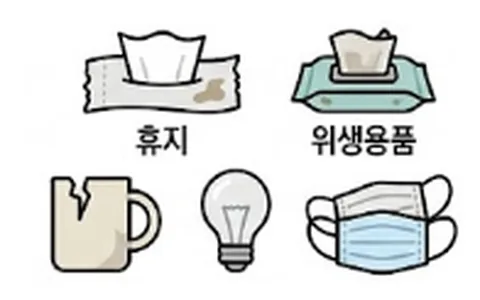
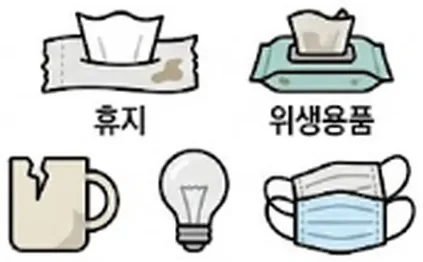
style: 판을 넓히고 분류 상자와 도감의 글자를 키움
좌우 여백이 크게 남아 화면이 좁아 보였다. 고정 폭 74rem을 화면에 따라 늘어나는
값으로 바꿨다. 넓은 화면에서는 거의 채우고 좁은 화면에서는 알아서 줄어든다.

    --page: min(94vw, 96rem)

분류 상자:
- 그림 둘레의 흰 여백을 잘라냈다. 같은 칸에서 그림이 훨씬 커 보인다
- 상자를 세로로 길게(5:6) 두어 그림과 이름이 둘 다 자리를 갖는다
- 그림이 칸 너비의 92%를 쓴다. 이름은 22px까지 커진다

도감:
- 카드 최소 폭 210px → 260px. 좁아서 이름이 접히고 글자가 붙어 보였다
- 이름 21px, 분류 라벨도 한 단계 키우고 자간을 벌렸다
- 검색 상자와 거르기 단추를 60px 높이로, 글자도 19px까지
- 품목 상세는 읽는 화면이라 폭을 56rem으로 넓히고 줄 간격을 1.7로
- 흔한 실수에 왼쪽 굵은 선을 둘러 눈에 먼저 들어오게 했다

그림을 키우면서 이름의 대비를 다시 쟀다. 덮개 90%에서는 음식물이 4.46으로
아슬하게 미달이라 92%로 올렸다. 지금 가장 낮은 값이 4.59다.

diff --git a/src/styles/identity.css b/src/styles/identity.css
@@ -31,8 +31,8 @@
   height: clamp(32px, 2.6vw, 44px);
 }
 .sort-mark--lg svg {
-  width: clamp(40px, 3.6vw, 56px);
-  height: clamp(40px, 3.6vw, 56px);
+  width: clamp(46px, 4.2vw, 68px);
+  height: clamp(46px, 4.2vw, 68px);
 }
 
 /** 표시 아래 재질 라벨. 실제 포장재의 조판을 따른다. */
@@ -413,8 +413,9 @@ main {
   align-items: center;
   justify-content: flex-end;
   gap: var(--space-2);
-  aspect-ratio: 4 / 3;
-  padding: var(--space-4);
+  /* 그림과 이름이 함께 들어가야 해서 세로를 더 준다. */
+  aspect-ratio: 5 / 6;
+  padding: var(--space-5) var(--space-3);
   overflow: hidden;
   border: 1px solid var(--rule);
   border-radius: var(--radius-card);
@@ -426,16 +427,17 @@ main {
   inset: 0;
   z-index: -2;
   background-image: var(--category-cover, none);
-  background-size: contain;
-  background-position: center 38%;
+  /* 칸 너비를 거의 다 쓴다. 여백을 잘라 둔 그림이라 이만큼 키워도 넘치지 않는다. */
+  background-size: 92% auto;
+  background-position: center 30%;
   background-repeat: no-repeat;
-  opacity: 0.55;
+  opacity: 0.62;
 }
 
 /**
  * 아래쪽만 덮어 글자가 앉을 자리를 만든다. 그림은 위쪽에서 온전히 보인다.
  *
- * 68% 지점의 90%는 실측해서 정한 값이다. 그 아래로 내리면 음식물 분류의 글자가
+ * 70% 지점의 92%는 실측해서 정한 값이다. 그 아래로 내리면 음식물 분류의 글자가
  * 4.5:1을 못 넘긴다. 그림마다 가장 어두운 픽셀을 골라 합성해 확인했다.
  */
 .category-card::after {
@@ -445,8 +447,8 @@ main {
   z-index: -1;
   background: linear-gradient(
     to bottom,
-    transparent 38%,
-    rgb(255 255 255 / 90%) 68%,
+    transparent 46%,
+    rgb(255 255 255 / 92%) 70%,
     rgb(255 255 255 / 97%) 100%
   );
 }
@@ -463,7 +465,8 @@ main {
 }
 
 .category-card .sort-mark__label {
-  font-size: var(--text-body);
+  font-size: clamp(16px, 1.7vw, 22px);
+  letter-spacing: 0.06em;
 }
 
 /* ══ 챗봇 위젯 ═══════════════════════════════════════════ */
@@ -1862,4 +1865,129 @@ main {
   padding-bottom: var(--space-4);
   -webkit-mask-image: linear-gradient(to bottom, #000 calc(100% - 20px), transparent 100%);
   mask-image: linear-gradient(to bottom, #000 calc(100% - 20px), transparent 100%);
+}
+
+/* ══ 도감: 숨통 틔우기 ═══════════════════════════════════ */
+
+/**
+ * 카드가 좁으면 이름이 접히고 글자가 서로 붙어 보인다. 칸을 넓히고 글자를 키우고
+ * 그 사이 간격을 벌린다. 판이 넓어졌으므로 칸을 키워도 한 줄에 여러 장이 들어간다.
+ */
+.catalog__grid {
+  grid-template-columns: repeat(auto-fill, minmax(min(100%, 260px), 1fr));
+  gap: var(--space-5) var(--space-5);
+}
+
+.catalog-card {
+  gap: var(--space-4);
+  padding: var(--space-5) var(--space-5) var(--space-4);
+}
+
+.catalog-card__name {
+  font-size: clamp(17px, 1.3vw, 21px);
+  line-height: 1.35;
+  letter-spacing: -0.01em;
+}
+
+.catalog-card__category {
+  gap: var(--space-3);
+  font-size: var(--text-small);
+  letter-spacing: 0.1em;
+}
+
+.catalog-card .item-image {
+  border-radius: var(--radius-card);
+}
+
+/* 검색과 거르기 줄 */
+.catalog__find {
+  gap: var(--space-4);
+  margin-bottom: var(--space-6);
+}
+
+.catalog__search span {
+  display: block;
+  margin-bottom: var(--space-2);
+  font-size: var(--text-small);
+  font-weight: 700;
+  color: var(--ink-muted);
+}
+
+.catalog__search input {
+  min-height: calc(var(--touch-target) + 4px);
+  padding: 0 var(--space-5);
+  font-size: clamp(16px, 1.2vw, 19px);
+}
+
+.catalog__photo-button {
+  min-height: calc(var(--touch-target) + 4px);
+  padding: 0 var(--space-6);
+  font-size: clamp(16px, 1.2vw, 19px);
+}
+
+.catalog__filters {
+  display: flex;
+  flex-wrap: wrap;
+  gap: var(--space-3);
+  margin-bottom: var(--space-6);
+}
+
+.catalog__filter {
+  padding-inline: var(--space-6);
+  font-size: clamp(15px, 1.1vw, 18px);
+}
+
+/* ── 품목 상세 ──────────────────────────────────────────── */
+
+/**
+ * 상세는 읽는 화면이다. 폭을 넓히고 줄 간격을 벌려 눈이 쉬어 갈 곳을 만든다.
+ */
+.catalog-dialog {
+  max-width: min(56rem, calc(100vw - var(--space-5) * 2));
+}
+
+.catalog-dialog__bar h3 {
+  font-size: var(--text-title);
+  font-weight: 800;
+}
+
+.catalog-dialog__image {
+  max-width: 300px;
+}
+
+.catalog-dialog__summary {
+  font-size: clamp(16px, 1.2vw, 19px);
+  line-height: 1.7;
+}
+
+.catalog-dialog h4 {
+  margin: var(--space-6) 0 var(--space-3);
+  font-size: var(--text-small);
+  font-weight: 700;
+  letter-spacing: var(--tracking-label);
+  color: var(--ink-muted);
+}
+
+.catalog-dialog__steps li {
+  line-height: 1.7;
+}
+
+.catalog-dialog__mistake {
+  padding: var(--space-4) var(--space-5);
+  background: var(--film);
+  border-left: 5px solid var(--cat-special);
+  border-radius: 0 var(--radius-card) var(--radius-card) 0;
+  line-height: 1.7;
+}
+
+.catalog-dialog__local-check {
+  padding: var(--space-4) var(--space-5);
+  border-radius: var(--radius-card);
+}
+
+.catalog-dialog__sources {
+  display: grid;
+  gap: var(--space-2);
+  padding: 0;
+  list-style: none;
 }

diff --git a/src/styles/tokens.css b/src/styles/tokens.css
@@ -73,8 +73,12 @@
    * 다만 글줄까지 그 폭을 다 쓰면 한 줄이 너무 길어 눈이 되돌아올 곳을 잃는다.
    * 그래서 읽히는 문단만 `--measure`로 따로 좁힌다.
    */
-  --page: 74rem;
-  --measure: 46rem;
+  /**
+   * 넓은 화면에서는 화면을 거의 채운다. 고정 폭으로 두면 노트북에서 양옆이
+   * 크게 남아 화면이 좁아 보인다.
+   */
+  --page: min(94vw, 96rem);
+  --measure: 48rem;
   --gutter: var(--space-5);
 
   /* ── 간격 ───────────────────────────────────────────── */
